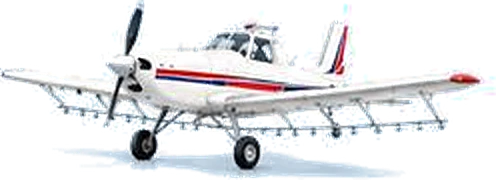
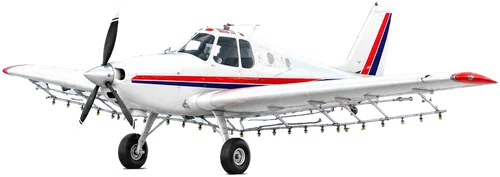
feat: imágenes nuevas de tipos de aeronave (renders del socio, recortados con transparencia)
(cherry picked from commit 80f50cb60c4e0e3afdf23fadd9d6a6d5320f9ba3)

diff --git a/components/ui/AircraftTypesSection.tsx b/components/ui/AircraftTypesSection.tsx
@@ -7,56 +7,56 @@ import { DisplayTitle } from "@/components/ui/home/DisplayTitle";
 // más chicos que la primera versión. Correspondencia con AircraftCategory confirmada por el socio (10/10):
 // Monomotor = MP + MT, Bimotor = BP + BT, Experimental / LSA = E, Agrícola = A,
 // Helicóptero = H, Proyecto = PR, Otros = S/C. VA-149 (17/10): orden y nombre como en lib/aircraft-categories.ts.
+// 27/10: renders nuevos del socio, todos a la misma escala (Proyecto ya no se achica); se generan con
+// scripts/process-aircraft-types.mjs.
 const TYPES = [
   {
     name: "Monomotor",
     image: "monomotor",
-    width: 484,
-    height: 196,
+    width: 500,
+    height: 171,
     categories: ["MP", "MT"],
   },
   {
     name: "Bimotor",
     image: "bimotor",
-    width: 484,
-    height: 212,
+    width: 500,
+    height: 198,
     categories: ["BP", "BT"],
   },
   {
     name: "Experimental / LSA",
     image: "experimental-lsa",
-    width: 494,
-    height: 176,
+    width: 500,
+    height: 214,
     categories: ["E"],
   },
   {
     name: "Agrícola",
     image: "agricola",
-    width: 496,
-    height: 180,
+    width: 500,
+    height: 177,
     categories: ["A"],
   },
   {
     name: "Helicóptero",
     image: "helicoptero",
-    width: 502,
-    height: 224,
+    width: 500,
+    height: 234,
     categories: ["H"],
   },
   {
     name: "Proyecto",
     image: "proyecto",
-    width: 486,
-    height: 238,
+    width: 500,
+    height: 182,
     categories: ["PR"],
-    // 26/10 (socio): un 15 % más chica que las demás.
-    scale: "scale-[0.85]",
   },
   {
     name: "Otros",
     image: "otros",
-    width: 494,
-    height: 188,
+    width: 500,
+    height: 216,
     categories: ["S/C"],
     // Ajustado (10/10): los turbohélices tienen categoría propia (MT y BT).
   },
@@ -91,7 +91,7 @@ export function AircraftTypesSection({ counts }: { counts: Record<string, number
                       fill
                       // En celular la caja mide ~35vw (85% de media columna): así baja la de 256 px y no la de 384.
                       sizes="(min-width: 1280px) 250px, (min-width: 1024px) 20vw, (min-width: 768px) 27vw, 35vw"
-                      className={`object-contain object-bottom origin-bottom ${"scale" in type ? type.scale : ""}`}
+                      className="object-contain object-bottom"
                     />
                   </div>
                   <h3 className="mt-3 text-[0.95rem] leading-snug font-bold text-[#00205B] decoration-[#D62828] decoration-2 underline-offset-4 group-hover:underline group-focus-visible:underline">

diff --git a/docs/REGISTRO_DE_CAMBIOS.md b/docs/REGISTRO_DE_CAMBIOS.md
@@ -317,6 +317,21 @@ Los commits de VA-106 a VA-110 dicen VA-92 a VA-96 (choque de numeración con el
 | VA-177 | ver git log | **Fuera "Página VA" de los textos visibles:** "Página personalizada" en la grilla de `/plans` y del admin ("Página personalizada completa", "Sin página personalizada"), la FAQ y el error de Ajustes. Lo demás ya lo había cambiado el socio. En código y docs internos sigue el nombre "Página VA". La lista vieja `Plan.features` ("Página VA: tu portada…") quedó en la base pero no se muestra en ningún lado. | `/plans`, `/faq`, `/admin/plans` |
 | VA-176 | ver git log | **El video se pausa al cambiar de foto:** mientras suena, el carrusel deja de pasar solo; al ir a otra foto (flechas, miniaturas o deslizando) el reproductor se cierra y vuelve "Ver video" (el loop mueve las diapositivas y un iframe movido se recarga y volvía a sonar fuera de vista). Al abrir una foto a pantalla completa se pausa con la API de iframe de YouTube (`postMessage`, `enablejsapi=1`), sin librerías. | Detalle de un aviso de Broker con video |
 
+## Rediseño "Moderno" del sitio público (25/10 y 26/10, rama `milton/rediseno`)
+
+Estilo elegido por el socio después de varias rondas de maquetas. Las reglas quedaron en `docs/DESIGN.md`, sección "Sistema Moderno". El panel admin no se tocó. Pasado a `pre-production` el 26/10 (`31ef1ae`).
+
+| Qué | Commits | Dónde verlo |
+|---|---|---|
+| Home: títulos de sección, cartel rojo flotante, destacadas en carrusel de dos, categorías de repuestos con iniciales e íconos propios (`public/iconos.svg`), CTA rojo, "Cómo funciona" con íconos, guías y servicios con fotos nuevas, rutas de vuelo animadas | `3d0dc86` a `ca7049a` | `/` |
+| Estándares globales (radios, sombras, botones en píldora, campos, casillas, títulos con la regla roja) y encabezado de página (`PageHeader`) | `8edfd28`, `dcbae73` | Todas las páginas públicas |
+| Menú Repuestos con subcategorías desplegables; se cierra al tocar un link | `8edfd28`, `dcbae73` | Header en escritorio |
+| Arreglos: limpiar filtros, sugeridas en carrusel, precio del detalle, scroll horizontal en detalles | `dcbae73` | `/aircraft`, detalles |
+| Servicios rediseñado | `636c5bd` | `/services` |
+| VA-122: textos de Nosotros | `cdb1bdd`, `109bd6c` | `/about` |
+| Cuenta completa obligatoria (27/10): aceptar términos y verificar el email también al entrar con Google o Facebook. Migración `20261027120000_terminos_aceptados` | `0b7eda6` | `/onboarding/completar` |
+| Imágenes nuevas de "Explorá por tipo de aeronave" (27/10): renders del socio recortados con `scripts/process-aircraft-types.mjs` (originales en `assets/originals/aircraft-types`); Proyecto ya no se achica | ver git log | `/`, sección de tipos |
+
 ## Lote del 18/10 (VA-152 a VA-164)
 
 | Tarea | Commit | Qué cambió | Dónde verlo |
